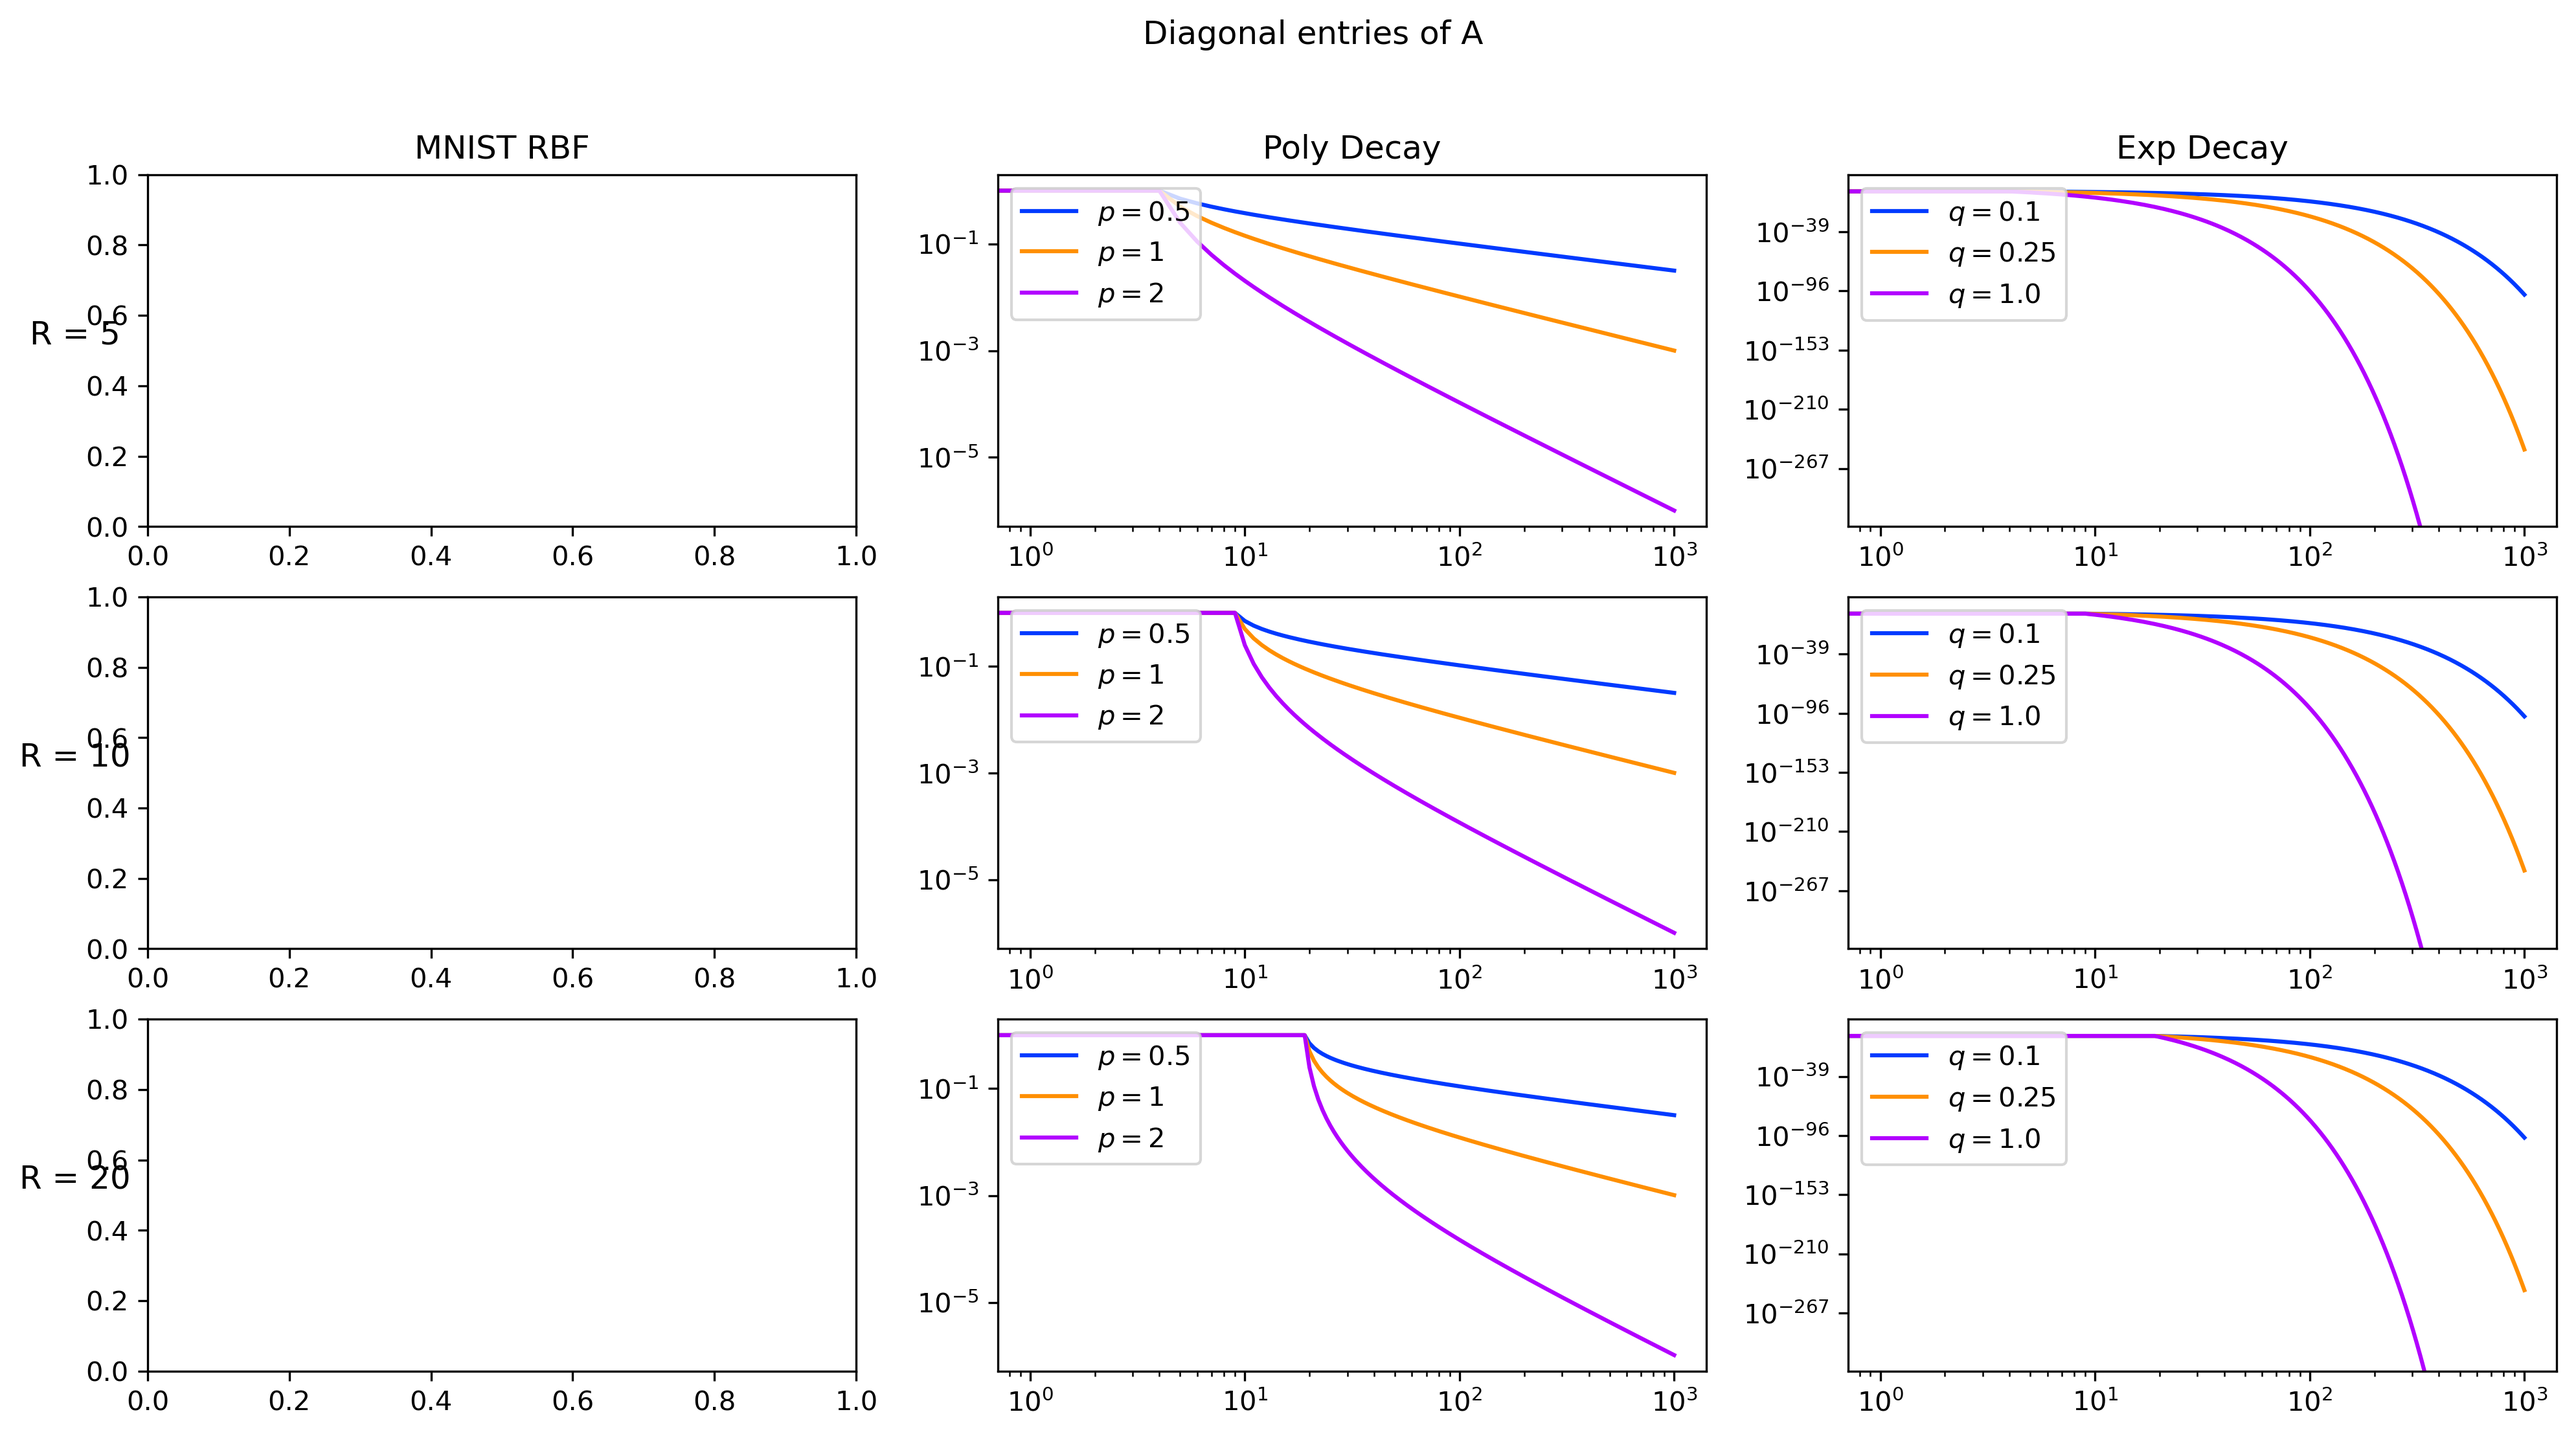
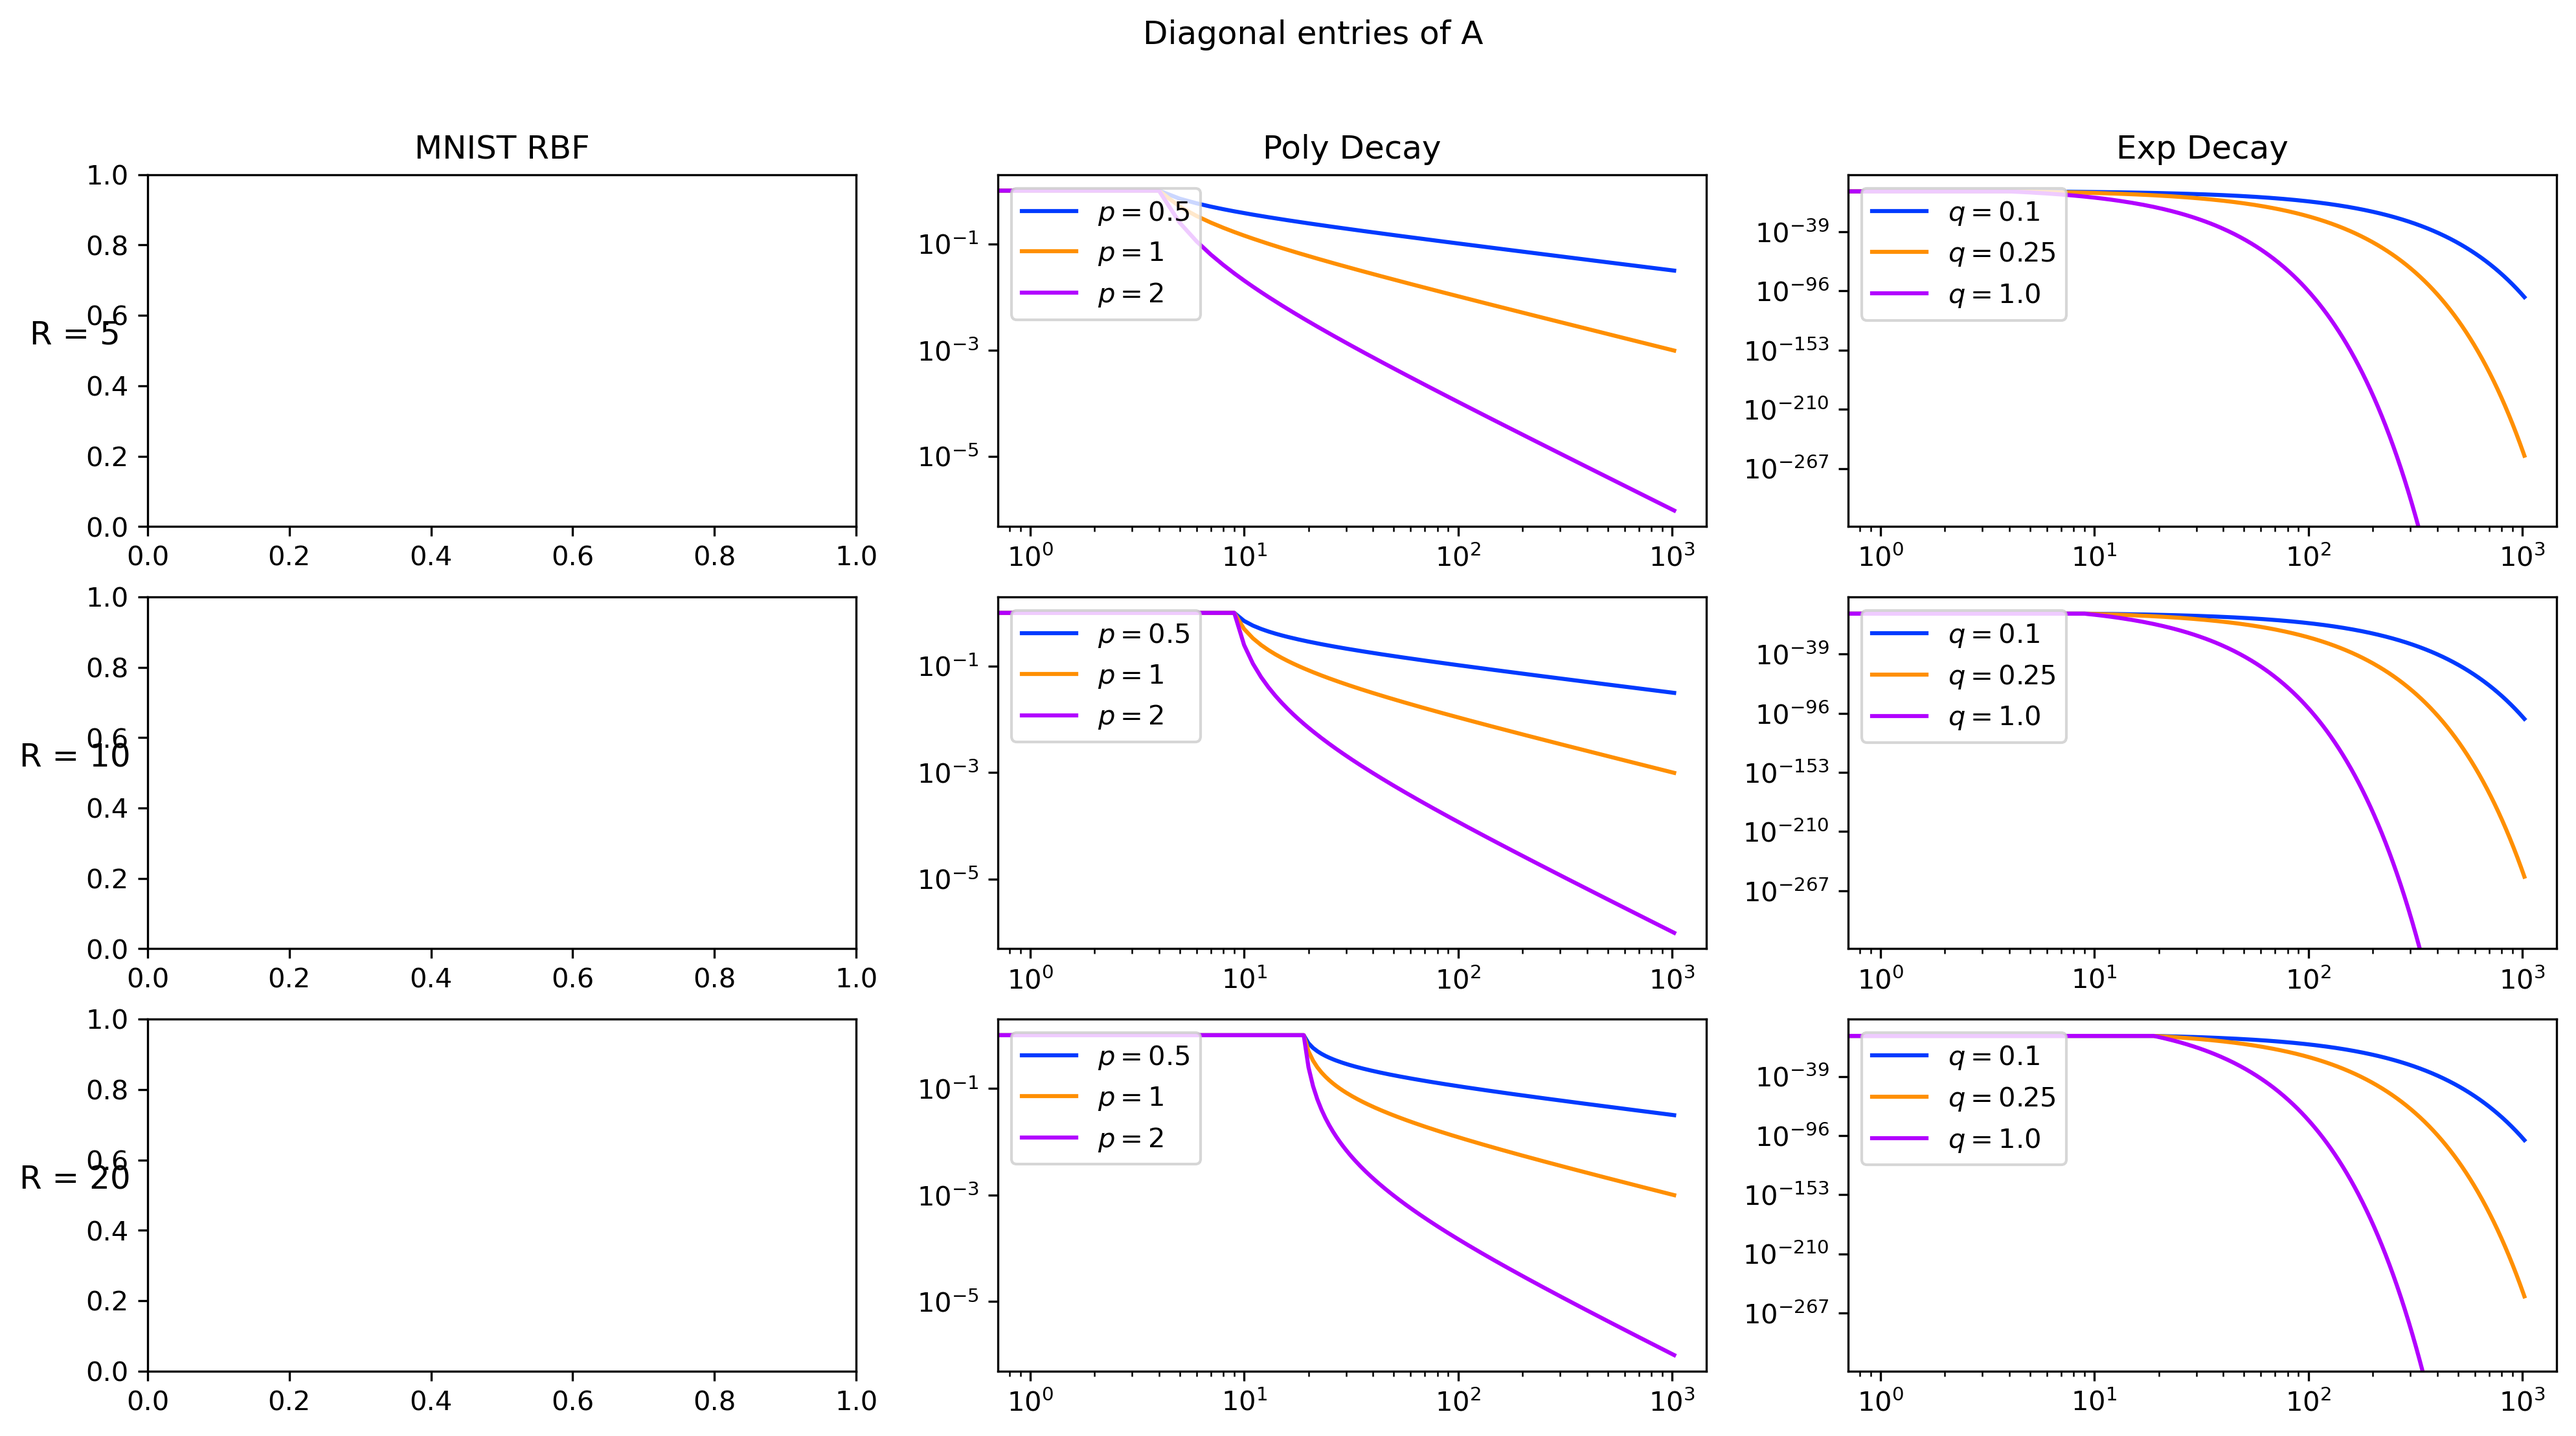
understand parallelization of first 2 steps

diff --git a/matrix_multiplication.py b/matrix_multiplication.py
@@ -1,0 +1,226 @@
+from mpi4py import MPI
+import numpy as np
+
+# 2D distribution for matrix−vector multiplication
+# Initialize MPI (world)
+comm = MPI.COMM_WORLD
+rank = comm.Get_rank()
+size = comm.Get_size()
+
+n_blocks_row = int(np.sqrt(size))
+n_blocks_col = int(np.sqrt(size))
+
+if n_blocks_col**2 != int(size):
+    if rank == 0:
+        print("The number of processors must be a perfect square")
+    exit(-1)
+
+# # Define the matrix
+# local_size = 2  # parameter hardcoded here
+# n = int(np.sqrt(size)) * local_size
+# matrix = np.arange(1, n * n + 1, 1, dtype="float")
+# matrix = np.reshape(matrix, (n, n))
+# arrs = np.split(matrix, n, axis=1)
+# raveled = [np.ravel(arr) for arr in arrs]
+# matrix_transpose = np.concatenate(raveled)
+
+# nb_x_col = 3
+# x = np.ones((n, nb_x_col))
+# sol_mult_1 = np.empty((n, nb_x_col), dtype="float")
+# sol_mult_2 = np.empty((nb_x_col, nb_x_col), dtype="float")
+# sol_mult_3_1 = np.empty((n, nb_x_col), dtype="float")
+# sol_mult_3_2 = np.empty((nb_x_col, nb_x_col), dtype="float")
+
+# if rank == 0:
+#     print(matrix)
+#     print(x)
+
+# comm_cols = comm.Split(color=rank / n_blocks_row, key=rank % n_blocks_row)
+# comm_rows = comm.Split(color=rank % n_blocks_row, key=rank / n_blocks_row)
+
+
+# in the context of this project, we will have the matrix A already built like this, and available at process 0
+# now we need to broadcast it to the correst processors to make sure with can divide it by black after
+# no need to broadcast it on every processor!
+
+choice = "mult_3"  # mult_2, mult_3
+
+# for the matrix
+matrix = None
+matrix_transpose = None
+local_size = 2  # parameter hardcoded here
+n = int(np.sqrt(size)) * local_size
+
+# for x
+x = None
+nb_x_col = 2
+
+# for sol
+sol_mult_1 = None
+sol_mult_2 = None
+sol_mult_3_1 = None
+sol_mult_3_2 = None
+
+if rank == 0:  # only process 0 has the matrix initially
+    matrix = np.arange(1, n * n + 1, 1, dtype="float")
+    matrix = np.reshape(matrix, (n, n))
+    arrs = np.split(matrix, n, axis=1)
+    raveled = [np.ravel(arr) for arr in arrs]
+    matrix_transpose = np.concatenate(raveled)
+
+    x = np.ones((n, nb_x_col))
+    sol_mult_1 = np.empty((n, nb_x_col), dtype="float")
+    sol_mult_2 = np.empty((nb_x_col, nb_x_col), dtype="float")
+    sol_mult_3_1 = np.empty((n, nb_x_col), dtype="float")
+    sol_mult_3_2 = np.empty((nb_x_col, nb_x_col), dtype="float")
+
+    print(matrix)
+    print(x)
+
+
+comm_cols = comm.Split(color=rank / n_blocks_row, key=rank % n_blocks_row)
+comm_rows = comm.Split(color=rank % n_blocks_row, key=rank / n_blocks_row)
+
+matrix = comm_rows.bcast(matrix, root=0)
+matrix_transpose = comm_rows.bcast(matrix_transpose, root=0)
+x = comm_rows.bcast(x, root=0)
+x = comm_cols.bcast(x, root=0)  # for mult_2 and mult_3, no need for mult_1
+
+# print(
+#     "Original rank: ",
+#     rank,
+#     "matrix: ",
+#     matrix,
+#     "x: ",
+#     x,
+# )
+
+# print(
+#     "Original rank: ",
+#     rank,
+#     "color col",
+#     int(rank / n_blocks_row),
+#     "color row ",
+#     int(rank % n_blocks_row),
+# )
+
+# Get ranks of subcommunicator
+rank_cols = comm_cols.Get_rank()
+rank_rows = comm_rows.Get_rank()
+
+# DISTRIBUTE THE MATRIX
+# Select columns
+submatrix = np.empty((local_size, n), dtype="float")
+
+# Then we scatter the columns and put them in the right order
+receiveMat = np.empty((local_size * n), dtype="float")
+comm_cols.Scatterv(matrix_transpose, receiveMat, root=0)
+subArrs = np.split(receiveMat, local_size)
+raveled = [np.ravel(arr, order="F") for arr in subArrs]
+submatrix = np.ravel(raveled, order="F")
+
+# Then we scatter the rows
+blockMatrix = np.empty((local_size, local_size), dtype="float")
+comm_rows.Scatterv(submatrix, blockMatrix, root=0)
+
+print(
+    "Original rank: ",
+    rank,
+    " rank in splitrows: ",
+    rank_rows,
+    " rank in splitcols: ",
+    rank_cols,
+    "submatrix after scattering columns: ",
+    submatrix,
+    "block matrix: ",
+    blockMatrix,
+    "\n\n",
+)
+
+
+if choice == "mult_1":
+
+    # Parallel Matrix Multiplication A @ X
+    # distribute X using columns
+    x_block = np.empty((local_size, nb_x_col), dtype="float")
+    comm_cols.Scatterv(x, x_block, root=0)
+    # Multiply in place each block matrix with each X block
+    local_mult = blockMatrix @ x_block
+    # Now sum those local multiplications along rows
+    rowmult = np.empty((local_size, nb_x_col), dtype="float")
+    comm_cols.Reduce(local_mult, rowmult, op=MPI.SUM, root=0)
+
+    if rank_cols == 0:
+        comm_rows.Gather(rowmult, sol_mult_1, root=0)
+
+    # Print in the root process
+    if rank == 0:
+        print(
+            "Solution mult 1 with MPI: ",
+            sol_mult_1,
+            "Solution mult 1 with Python: ",
+            matrix @ x,
+        )
+
+elif choice == "mult_2":
+
+    # Parallel Matrix Multiplication X^T A X
+    # distribute X using columns and X^T using rows
+    x_block = np.empty((local_size, nb_x_col), dtype="float")
+    comm_cols.Scatterv(x, x_block, root=0)
+
+    x_T_block = np.empty((local_size, nb_x_col), dtype="float")
+    comm_rows.Scatterv(x, x_T_block, root=0)
+    x_T_block = x_T_block.T
+
+    local_mult = x_T_block @ blockMatrix @ x_block
+
+    comm.Reduce(local_mult, sol_mult_2, op=MPI.SUM, root=0)
+
+    # Print in the root process
+    if rank == 0:
+        print(
+            "Solution mult 2 with MPI: ",
+            sol_mult_2,
+            "Solution mult 2 with Python: ",
+            x.T @ matrix @ x,
+        )
+
+
+elif choice == "mult_3":
+
+    # Both parallel multiplication at the same time now
+    x_block = np.empty((local_size, nb_x_col), dtype="float")
+    comm_cols.Scatterv(x, x_block, root=0)
+
+    x_T_block = np.empty((local_size, nb_x_col), dtype="float")
+    comm_rows.Scatterv(x, x_T_block, root=0)
+    x_T_block = x_T_block.T
+
+    local_mult_1 = blockMatrix @ x_block
+    local_mult_2 = x_T_block @ blockMatrix @ x_block
+
+    # sol mult 1
+    rowmult = np.empty((local_size, nb_x_col), dtype="float")
+    comm_cols.Reduce(local_mult_1, rowmult, op=MPI.SUM, root=0)
+    if rank_cols == 0:
+        comm_rows.Gather(rowmult, sol_mult_3_1, root=0)
+
+    # sol mult 2
+    comm.Reduce(local_mult_2, sol_mult_3_2, op=MPI.SUM, root=0)
+
+    # Print in the root process
+    if rank == 0:
+        print(
+            "Solution mult 1 with MPI: ",
+            sol_mult_3_1,
+            "Solution mult 1 with Python: ",
+            matrix @ x,
+            "Solution mult 2 with MPI: ",
+            sol_mult_3_2,
+            "Solution mult 2 with Python: ",
+            x.T @ matrix @ x,
+        )
+
+else:
+    print("incorrect choice")

diff --git a/functions.py b/functions.py
@@ -1,5 +1,8 @@
 import numpy as np
 import scipy
+import random
+import torch
+from hadamard_transform import hadamard_transform
 
 # from mpi4py import MPI
 
@@ -20,7 +23,7 @@ def rand_nystrom_seq(
     try:
         # Try Cholesky
         L = np.linalg.cholesky(B)
-        Z = np.linalg.lstsq(L, C.T)[0]
+        Z = np.linalg.lstsq(L, C.T, rcond=None)[0]
         Z = Z.T
     except np.linalg.LinAlgError as err:
         # # Method1: Compute the SVD of B
@@ -40,7 +43,7 @@ def rand_nystrom_seq(
         # Does this factorization actually work?
         L = lu[perm, :]
         Cperm = C[:, perm]
-        Z = np.linalg.lstsq(L, Cperm.T)[0]
+        Z = np.linalg.lstsq(L, Cperm.T, rcond=None)[0]
         Z = Z.T
 
     Q, R = np.linalg.qr(Z)
@@ -60,5 +63,40 @@ def rand_nystrom_seq(
         return U_hat_k, Sigma_k @ Sigma_k, U_hat_k.T
 
 
+def rand_nystrom_parallel(A: np.ndarray, Omega: np.ndarray, k: int) -> np.ndarray:
+    # 1. Compute C = A @ Omega
+
+    # 2.1 Compute B = Omega.T @ C
+
+    # 2.2 Compute the Cholesky factorization of B: B = LL^T or eigen value decomposition
+
+    # 3. Compute Z = C @ L.T with substitution
+
+    # 4. Compute the QR factorization Z = QR
+
+    # 5. Compute the truncated rank-k SVD of R: R = U Sigma V.T
+
+    # 6. Compute U_hat = Q @ U
+
+    # 7. Output factorization [A_nyst]_k = U_hat Sigma^2 U_hat.T
+    pass
+
+
 def create_sketch_matrix_gaussian(n: int, l: int) -> np.ndarray:
+    # TODO: check the numtiplication by 1/sqrt(n)
+    # return (1 / np.sqrt(n)) * np.random.normal(loc=0.0, scale=1.0, size=[n, l])
     return np.random.normal(loc=0.0, scale=1.0, size=[n, l])
+
+
+def create_sketch_matrix_SHRT(n: int, l: int) -> np.ndarray:
+    # n x n => l x n
+    d = np.array([1 if random.random() < 0.5 else -1 for _ in range(n)])
+    D = np.diag(np.sqrt(n / l) * d)
+    P = random.sample(range(n), l)
+    Omega_T = D
+    Omega_T = np.array(
+        [hadamard_transform(torch.from_numpy(Omega_T[:, i])).numpy() for i in range(n)]
+    )
+    Omega_T = Omega_T.T
+    Omega_T = Omega_T[P, :]
+    return Omega_T.T

diff --git a/main_seq.py b/main_seq.py
@@ -1,18 +1,32 @@
 import numpy as np
 import matplotlib.pyplot as plt
 from data_helpers import pol_decay, exp_decay
-from functions import rand_nystrom_seq
+from functions import (
+    rand_nystrom_seq,
+    create_sketch_matrix_gaussian,
+    create_sketch_matrix_SHRT,
+)
 from plot import setIndividualTitles, setColNames
+import torch
+from hadamard_transform import hadamard_transform
+
 
 if __name__ == "__main__":
 
-    n = 10**3
+    n = 1024  # 10**3
     l = 50
     Rs = [5, 10, 20]
-    ks = [20, 20, 20]  # k < l!!!
+    ks = [50, 50, 50]  # k < l!!!
     ps = [0.5, 1, 2]
     qs = [0.1, 0.25, 1.0]
-    Omega = np.random.normal(loc=0.0, scale=1.0, size=[n, l])
+    sketching = "gaussian"  # "gaussian"  # "SHRT"
+
+    if sketching == "gaussian":
+        Omega = create_sketch_matrix_gaussian(n, l)
+    elif sketching == "SHRT":
+        Omega = create_sketch_matrix_SHRT(n, l)
+    # print(Omega.shape)
+
     colors = ["#003aff", "#ff8f00", "#b200ff"]
 
     # Grid of plots
